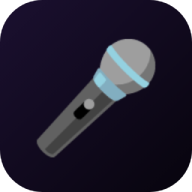
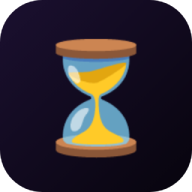
Add a Plans category and rename the app to Countdown
Personal things with a date on them -- a friend visiting, a trip, a deadline
-- now have a category of their own. I went with "Plans" because it reads
naturally beside Concerts, Movies and Shows and covers anything you are
counting down to without being about entertainment. It behaves like movies
and shows: name, emoji, photo, date and place, with no concert extras.

The name no longer fitted either: "Encore" is a concert word, and the app
had already grown past concerts. "Countdown" is what every card actually
shows, and it is the time-and-calendar direction that was asked for. The
icon follows it -- an hourglass rather than a microphone, on the same dark
gradient.

The localStorage keys keep the original `concerts.` prefix. Renaming them
would orphan the data already on the phone for no benefit, so the prefix is
deliberately left alone; only the backup filename and the envelope's `app`
field carry the new name.

Also removed the `tagline` string, dead since the old header was replaced,
and now wrong: it only described shows.

Verified in headless Chromium against data written before this change: the
four-way category menu with counts, the short Plans form, a plan appearing
as the Home hero, records with no `kind` still loading as concerts, and the
stats reporting all four categories.

Claude-Session: https://claude.ai/code/session_01XYbJ2QBqnYW3XjMzBGDktH

Changed region(s): [[0.1875, 0.1875, 0.8125, 0.8438]]

diff --git a/src/lib/i18n.js b/src/lib/i18n.js
@@ -2,8 +2,7 @@
 // strings stay behind t() rather than inline in the JSX so adding a language
 // later is a table and a switch, not a hunt through every component.
 const STRINGS = {
-  appName: 'Encore',
-  tagline: 'The shows ahead and the ones you already lived',
+  appName: 'Countdown',
   navHome: 'Home',
   navEvents: 'Events',
   navHistory: 'History',
@@ -43,27 +42,35 @@ const STRINGS = {
   kind_concert: 'Concert',
   kind_movie: 'Movie',
   kind_show: 'Show',
+  kind_plan: 'Plan',
   kindPlural_concert: 'Concerts',
   kindPlural_movie: 'Movies',
   kindPlural_show: 'Shows',
+  kindPlural_plan: 'Plans',
   kindIcon_concert: '🎤',
   kindIcon_movie: '🎬',
   kindIcon_show: '🎭',
+  kindIcon_plan: '🗓',
   titleLabel_concert: 'Artist',
   titleLabel_movie: 'Movie',
   titleLabel_show: 'Show',
+  titleLabel_plan: 'Plan',
   titleRequired_concert: 'Artist is required',
   titleRequired_movie: 'The movie name is required',
   titleRequired_show: 'The show name is required',
+  titleRequired_plan: 'The plan needs a name',
   venueLabel_concert: 'Venue',
   venueLabel_movie: 'Cinema',
   venueLabel_show: 'Place',
+  venueLabel_plan: 'Where',
   photoLabel_concert: 'Artist photo',
   photoLabel_movie: 'Poster',
   photoLabel_show: 'Photo',
+  photoLabel_plan: 'Photo',
   emptyKind_concert: 'No concerts on the calendar. Add the next one.',
   emptyKind_movie: 'No movies on the calendar. Add the next one.',
   emptyKind_show: 'No shows on the calendar. Add the next one.',
+  emptyKind_plan: 'Nothing planned. Add the next one.',
 
   emoji: 'Emoji',
   emojiHint: 'Shown next to the name on the cards.',

diff --git a/index.html b/index.html
@@ -3,16 +3,16 @@
   <head>
     <meta charset="UTF-8" />
     <meta name="viewport" content="width=device-width, initial-scale=1.0, viewport-fit=cover" />
-    <meta name="description" content="Concerts, movies and shows: the ones ahead and the ones you already lived." />
+    <meta name="description" content="Concerts, movies, shows and plans: how long until each one, and how long since." />
     <meta name="apple-mobile-web-app-capable" content="yes" />
     <meta name="mobile-web-app-capable" content="yes" />
     <meta name="apple-mobile-web-app-status-bar-style" content="black-translucent" />
-    <meta name="apple-mobile-web-app-title" content="Encore" />
+    <meta name="apple-mobile-web-app-title" content="Countdown" />
     <meta name="theme-color" content="#000000" />
     <link rel="icon" type="image/svg+xml" href="/icon.svg" />
     <link rel="apple-touch-icon" href="/apple-touch-icon.png" />
     <link rel="manifest" href="/manifest.webmanifest" />
-    <title>Encore</title>
+    <title>Countdown</title>
     <script>
       /* Paint the background before the CSS/JS bundle loads so the
          home-screen launch never flashes white. */

diff --git a/src/lib/events.js b/src/lib/events.js
@@ -6,7 +6,7 @@
 //
 //   {
 //     id:         string        stable local id
-//     kind:       'concert' | 'movie' | 'show'
+//     kind:       'concert' | 'movie' | 'show' | 'plan'
 //     title:      string        artist, film or show name (required)
 //     emoji:      string        shown after the title on the cards
 //     photo:      string        cropped photo as a data URL
@@ -21,11 +21,11 @@
 //     updatedAt:  ISO string
 //   }
 
-export const KINDS = ['concert', 'movie', 'show']
+export const KINDS = ['concert', 'movie', 'show', 'plan']
 export const DEFAULT_KIND = 'concert'
 
-// Only concerts carry the long tail of extras; the other kinds are name, photo,
-// date and venue, which is all they are worth typing.
+// Only concerts carry the long tail of extras. Movies, shows and plans are
+// name, photo, date and place, which is all they are worth typing.
 export const KINDS_WITH_EXTRAS = new Set(['concert'])
 
 export const CURRENCIES = ['MXN', 'USD', 'EUR', 'GBP', 'CAD', 'BRL', 'ARS', 'COP', 'CLP', 'JPY']

diff --git a/src/components/BackupPanel.jsx b/src/components/BackupPanel.jsx
@@ -22,7 +22,7 @@ export default function BackupPanel({
     const url = URL.createObjectURL(blob)
     const link = document.createElement('a')
     link.href = url
-    link.download = `encore-backup-${new Date().toISOString().slice(0, 10)}.json`
+    link.download = `countdown-backup-${new Date().toISOString().slice(0, 10)}.json`
     link.click()
     URL.revokeObjectURL(url)
   }

diff --git a/src/lib/storage.js b/src/lib/storage.js
@@ -39,7 +39,7 @@ export const BACKUP_VERSION = 1
 
 export function exportBackup(concerts) {
   return {
-    app: 'encore',
+    app: 'countdown',
     version: BACKUP_VERSION,
     exportedAt: new Date().toISOString(),
     concerts,

diff --git a/README.md b/README.md
@@ -1,8 +1,8 @@
-# Encore — Event Tracker
+# Countdown — Event Tracker
 
-A phone-first web app to track the events you are going to and the ones you
-already lived — concerts, movies and shows. Built to be added to the
-iOS/Android home screen and run full-screen, like the `mi-gym` app.
+A phone-first web app for how long until the things ahead, and how long since
+the ones behind — concerts, movies, shows and personal plans. Built to be added
+to the iOS/Android home screen and run full-screen, like the `mi-gym` app.
 
 - **Stack:** Vite + React 19, no backend, no CSS framework.
 - **Storage:** `localStorage` on the device, with JSON backup export/import.
@@ -14,13 +14,16 @@ iOS/Android home screen and run full-screen, like the `mi-gym` app.
 
 ## Categories
 
-Every event is a **concert**, a **movie** or a **show**. The category is only a
-filter and a set of form fields — one record shape covers all three, so
-sorting, storage, backups and the countdown behave identically everywhere.
+Every event is a **concert**, a **movie**, a **show** or a **plan** — that last
+one for anything personal with a date on it: a friend visiting, a trip, a
+deadline. The category is only a filter and a set of form fields; one record
+shape covers all four, so sorting, storage, backups and the countdown behave
+identically everywhere.
 
 Concerts carry the long tail of optional fields (tour, city, price, seat,
-openers, company, rating, setlist, notes, ticket link). Movies and shows are
-just name, emoji, photo, date and venue, which is all they are worth typing.
+openers, company, rating, setlist, notes, ticket link). Movies, shows and plans
+are just name, emoji, photo, date and place, which is all they are worth
+typing.
 
 The venue field suggests places already used, as tappable chips and as a
 `datalist` for typing. Venues used for the category being added rank first — a
@@ -34,9 +37,13 @@ photo on the right. Navigation is a floating translucent bar centred at the
 bottom, with the content scrolling visibly underneath it. Adding belongs to
 Events: `+` floats above the bar there and nowhere else.
 
+The `localStorage` keys still use the original `concerts.` prefix. Renaming
+them would orphan everyone's existing data for no benefit, so the prefix is
+deliberately left alone.
+
 **Events** is the main list: upcoming events, soonest first. The page title
 *is* the category switcher — tapping "Concerts" opens Concerts / Movies /
-Shows with a count each. Each card carries the photo on one edge — clipped to a
+Shows / Plans with a count each. Each card carries the photo on one edge — clipped to a
 diagonal and feathered so it bleeds into the card — with the name, venue, date
 and days left on the other. The photo side alternates down the list, left /
 right / left, and because the side comes from the card's position it
@@ -52,7 +59,7 @@ over every event, not just the past ones on screen.
 
 **Home** is the landing screen and stays deliberately bare: the very next event
 as a full-width hero, the ones after it as a grid of small tiles three across,
-and nothing else. All three categories mix here, ordered purely by date — Home
+and nothing else. All four categories mix here, ordered purely by date — Home
 answers "what is next", not "what kind". The tiles are tight on purpose: at
 that size they carry the countdown and the title only, since the point is
 seeing a lot of the calendar at once rather than every detail.
@@ -100,7 +107,7 @@ when you want the file to win outright.
 
 ## Regenerating the icons
 
-`public/icon.svg` and the PNGs are the 🎤 emoji on a dark gradient. An emoji
+`public/icon.svg` and the PNGs are the ⏳ emoji on a dark gradient. An emoji
 needs a real font renderer, so `npm run icons` has a headless Chrome draw the
 glyph; the cropping and downscaling that follow are done with node's `zlib`, so
 the script still takes no npm dependency. It does need a Chrome or Chromium on
@@ -118,7 +125,7 @@ So every icon is rendered at 512, cropped square, then box-filtered down.
 ```
 index.html                  PWA meta tags + the pre-paint theme script
 public/
-  icon.svg                  source artwork: the mic emoji on a dark gradient
+  icon.svg                  source artwork: the hourglass emoji on a dark gradient
   manifest.webmanifest      home-screen install manifest
   apple-touch-icon.png      generated (npm run icons)
   icon-*.png                generated (npm run icons)
@@ -157,8 +164,8 @@ One flat, JSON-safe object per event, defined in `src/lib/events.js`:
 | Field                      | Notes                                          |
 | -------------------------- | ---------------------------------------------- |
 | `id`                       | local UUID                                     |
-| `kind`                     | `concert` \| `movie` \| `show`                  |
-| `title`                    | artist, film or show name — the only required   |
+| `kind`                     | `concert` \| `movie` \| `show` \| `plan`         |
+| `title`                    | artist, film, show or plan name — the only one required |
 | `emoji`                    | shown after the title on the cards             |
 | `photo`                    | cropped photo, stored as a data URL            |
 | `venue`                    | where it happens, shown on every card          |
